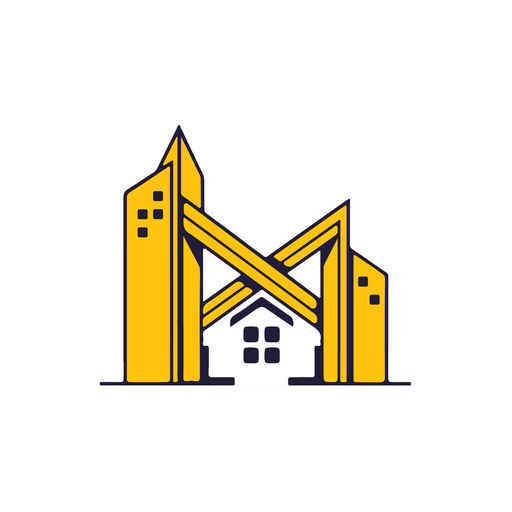
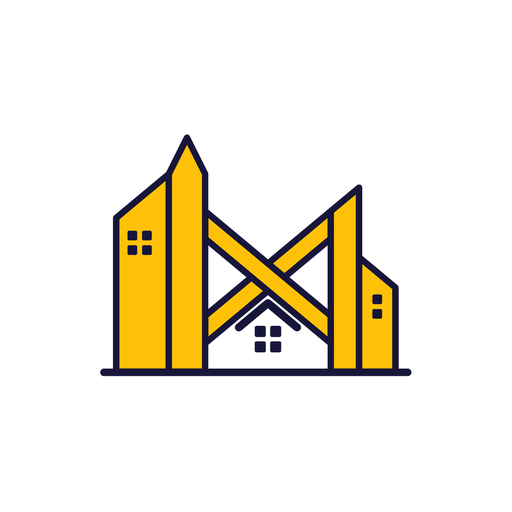
feat(brand): الشعار المعاد رسمه هندسياً — الترويسة والتذييل والأيقونات وبطاقة المشاركة
مولَّدة من brand/logo-2026 عبر project-tools/gen_brand.py. عرض شعار الترويسة 149 بدل 132 لأنّ نسبة الأفقيّ الجديد أعرض.

Changed region(s): [[0.1875, 0.25, 0.8125, 0.7812]]

diff --git a/components/layout/Navbar.tsx b/components/layout/Navbar.tsx
@@ -103,7 +103,7 @@ export function Navbar() {
                 عبارة) يصير نصّه غير مقروء في شريطٍ ارتفاعه ٦٤ بكسل — سلّم
                 المصمّم نسخةً أفقية لهذا الموضع بالذات، فتُستعمل هنا وحدها. */}
             <img src="/brand/logo-horizontal.png" alt="مسكني — منصّتك العقارية الموثوقة"
-                 width={132} height={50}
+                 width={149} height={50}
                  className="h-10 w-auto sm:h-12" />
           </Link>
 
